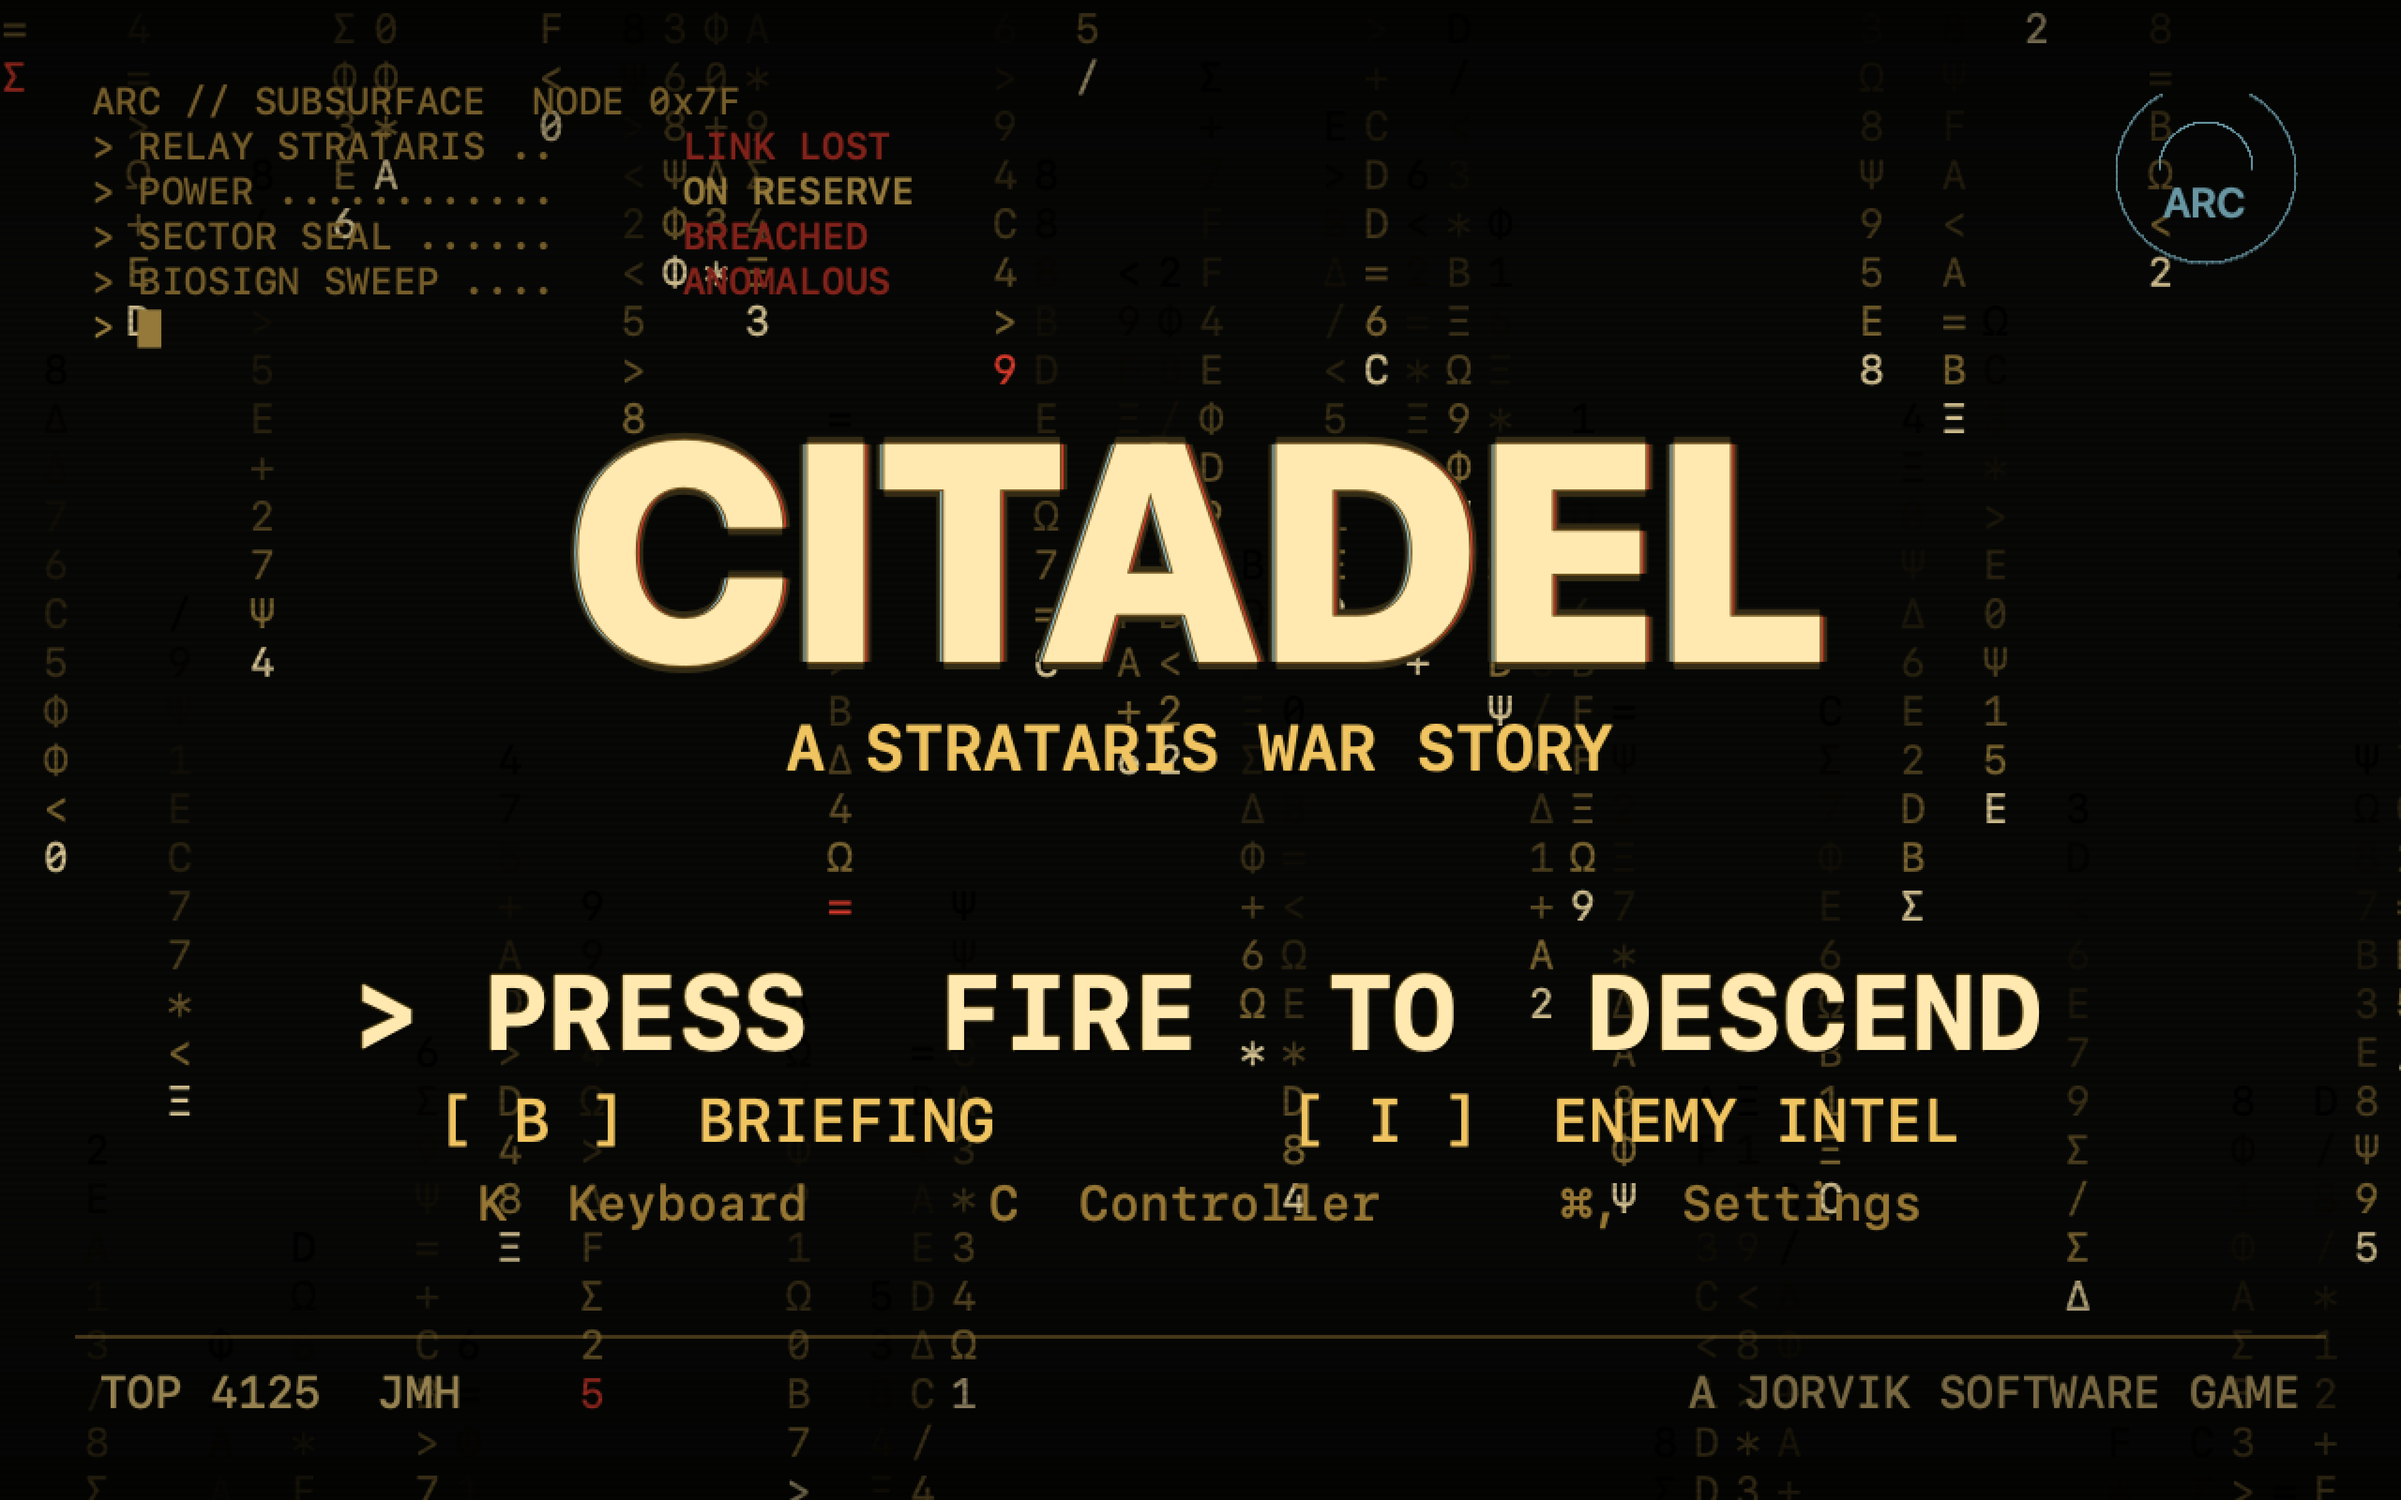
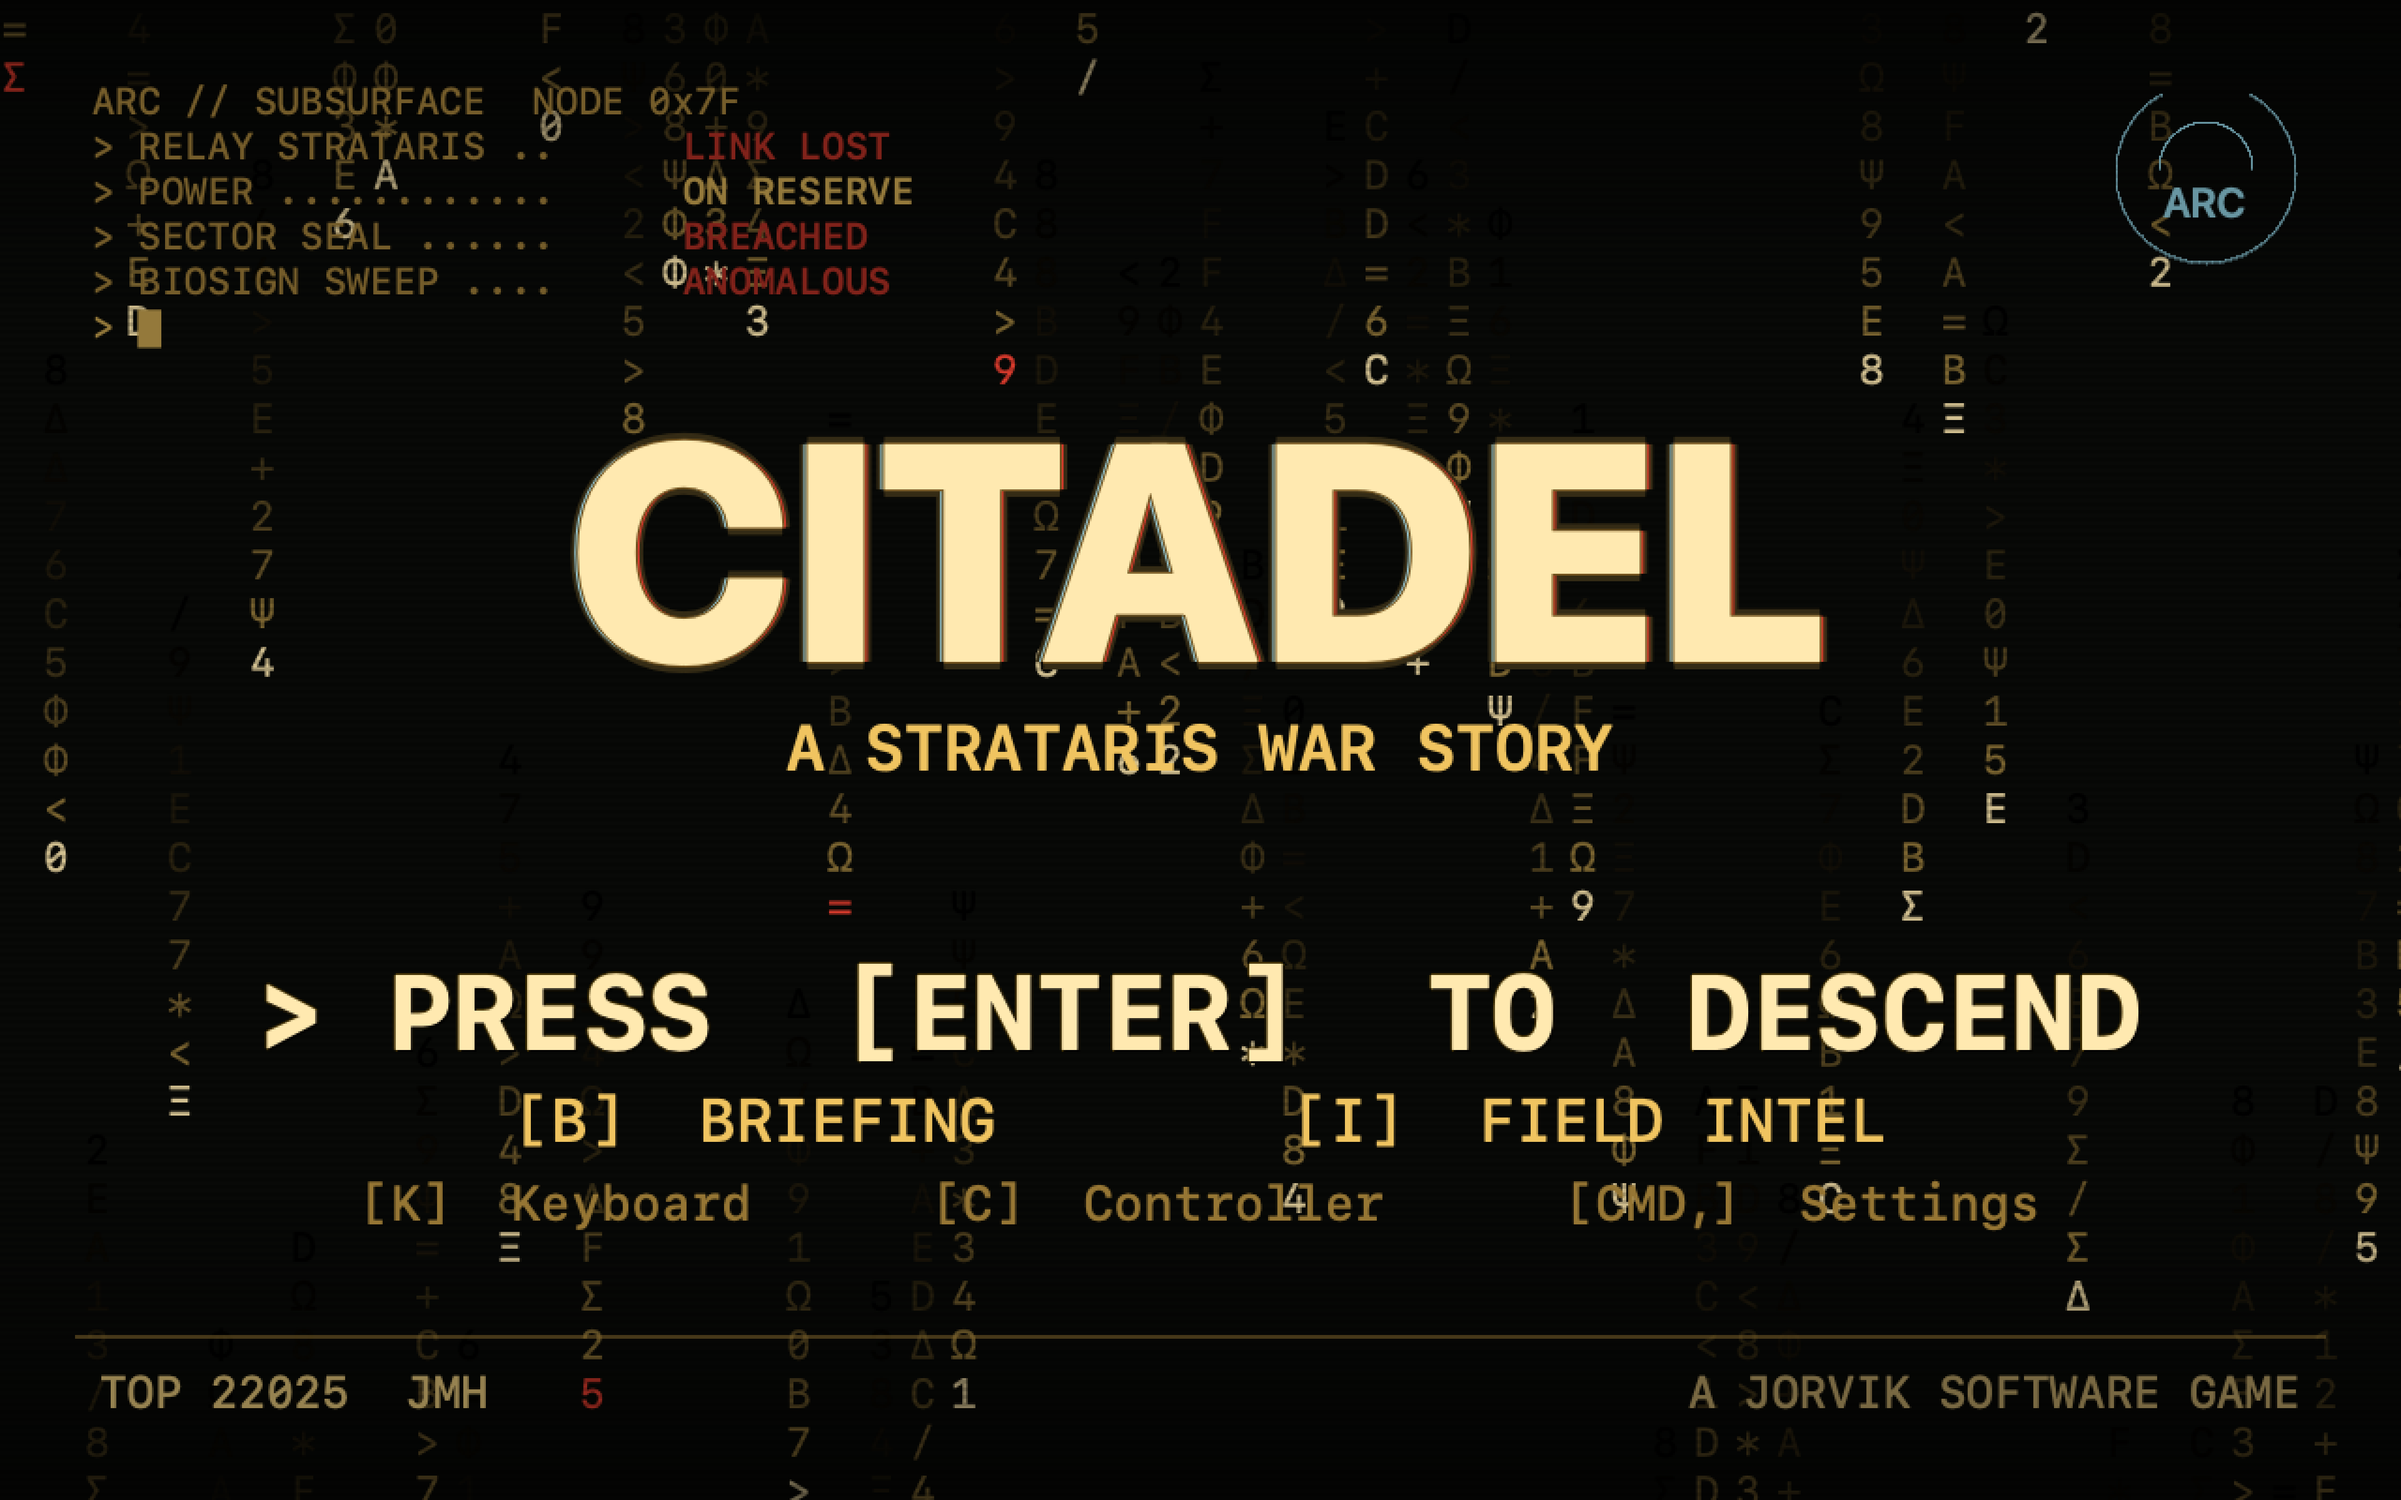
Bring the README up to date with the visor HUD and FIELD INTEL
The README and its screenshots predated the visor-HUD redesign and the
intel-sheet rebuild — the images were several passes behind and the prose
still described the old status bar and single-screen enemy intel.

IMAGES — regenerated the whole docs/screenshots set via CITADEL_SHOTS so the
committed folder matches the harness output. The featured shots now show the
visor HUD in combat and the FIELD INTEL codex (the Queen, front + profile).

PROSE
- HUD bullet rewritten from the old "status bar + objective compass" to the
  visor HUD (motion tracker with the objective caret, vitals/weapon pods,
  full-frame view, always-on cells/fuel/mines telemetry).
- Front-end bullet: "enemy intel codex" -> the five-page FIELD INTEL dossier.
- Corrected the DRONE from "fast" to slow-but-cunning, matching the codex.
- [I] control label is now "field intel"; added the StartLevel warp flag to
  the hidden-flags list.

Changed region(s): [[0.0938, 0.625, 0.9062, 0.8125], [0.375, 0.7812, 0.5625, 0.8125], [0.0938, 0.9062, 0.2188, 0.9375]]

diff --git a/README.md b/README.md
@@ -44,8 +44,8 @@ fuel and proximity mines — so every floor is a resource problem as much as a
 fight.
 
 - **The brood.** Two castes hunt you:
-  - **DRONE** — a fast, grey-green melee pack-hunter. It comes in numbers and
-    kills up close.
+  - **DRONE** — a slick green-black melee pack-hunter. Slow, but it thinks: it
+    comes in numbers, flanks, and kills up close.
   - **QUEEN** — the rooted brood-mother that holds each floor. She births fresh
     drones, she loathes the light, and she gates the exit. **Only plasma wounds
     her — and only fire keeps her down:** put her down with the plasma rifle,
@@ -63,21 +63,25 @@ fight.
   socket** to top up plasma cells — the sockets slowly refill their own reserve,
   so you're never permanently starved. Drop a **proximity mine** for the swarm
   to wander onto.
-- **The HUD.** A status bar with ammo, health, an **objective compass** that
-  points to the living Queen and swings to the exit once she's ash, armour and
-  your arsenal — plus always-on **cells / fuel / mines** gauges, so the survival
-  maths is legible at a glance.
-- **The front end.** A boot-up terminal title screen, a mission **briefing**, an
-  **enemy intel** codex, and a persistent **Hall of the Fallen** high-score table
-  — name, score, depth and colony, across sessions.
+- **The visor HUD.** No status bar — the 3-D view fills the screen, and every
+  readout is projected onto the helmet visor: an *Aliens*-style **motion
+  tracker** with the **objective caret** on its rim (it points to the living
+  Queen, then swings to the exit once she's ash), vitals and weapon pods, and
+  always-on **cells / fuel / mines** telemetry, so the survival maths is legible
+  at a glance.
+- **The front end.** A boot-up terminal title screen, a mission **briefing**, a
+  five-page **FIELD INTEL** dossier (the brood in front + profile, the arsenal,
+  the field supply, and what hurts you — and how badly), and a persistent
+  **Hall of the Fallen** high-score table — name, score, depth and colony,
+  across sessions.
 
 ## Screenshots
 
 | | |
 |---|---|
-| ![Combat](docs/screenshots/02-combat.png) | ![Enemy intel](docs/screenshots/03-intel.png) |
-| Plasma up in the steel corridors. | The enemy intel codex — meet the Queen. |
-| ![Mission briefing](docs/screenshots/04-briefing.png) | ![High scores](docs/screenshots/06-highscores.png) |
+| ![Combat and the visor HUD](docs/screenshots/02-combat.png) | ![Field intel — the Queen](docs/screenshots/04-intel-2.png) |
+| The visor HUD, live in an occupied ARC control room. | FIELD INTEL: the Queen, front and profile. |
+| ![Mission briefing](docs/screenshots/08-briefing.png) | ![The Hall of the Fallen](docs/screenshots/10-highscores.png) |
 | The occupation, in brief. | The Hall of the Fallen. |
 
 ## Run it
@@ -100,7 +104,7 @@ open .build/Citadel.app     # descend
 | **1 2 3** · **[ ]** | select / cycle weapon |
 | **Tab** | automap |
 | **P** · **M** | pause · mute |
-| **B** / **I** | briefing / enemy intel (from the title) |
+| **B** / **I** | briefing / field intel (from the title) |
 | **K** / **C** | keyboard / controller setup |
 | **⌘,** | settings (volumes, sensitivity, reset scores) |
 | **Esc** · **⌘Q** | back · quit |
@@ -123,6 +127,7 @@ defaults write cc.jorviksoftware.Citadel FastMonsters  -bool true   # nightmare 
 defaults write cc.jorviksoftware.Citadel RevealMap     -bool true   # automap fully revealed
 defaults write cc.jorviksoftware.Citadel ScreenshotKey -bool true   # F saves a 4× PNG to the Desktop
 defaults write cc.jorviksoftware.Citadel FixedSeed     -int 1234    # pin the level seed for testing
+defaults write cc.jorviksoftware.Citadel StartLevel    -int 9       # warp new runs to a floor (1-indexed; testing)
 ```
 
 ### Headless harnesses
